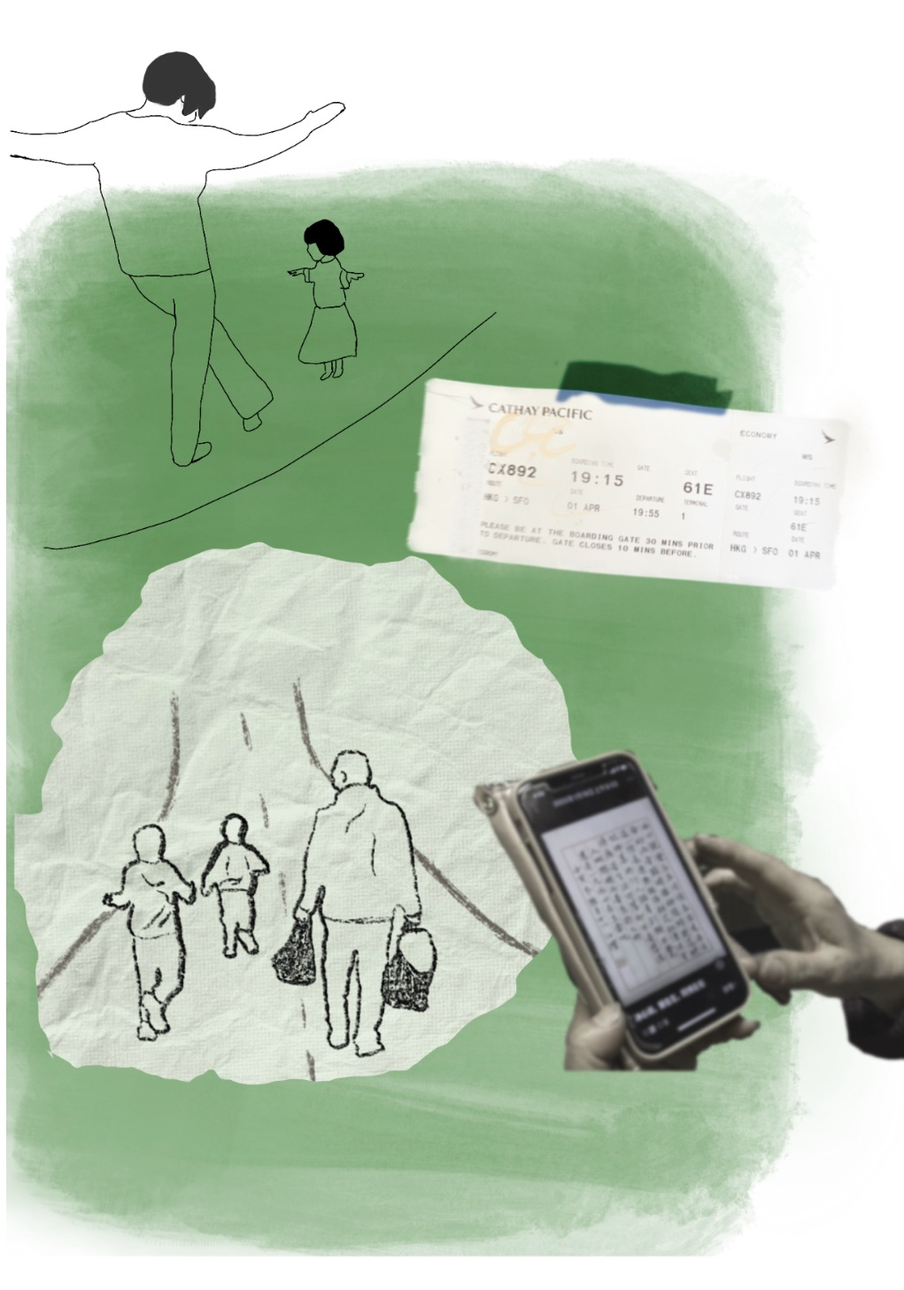
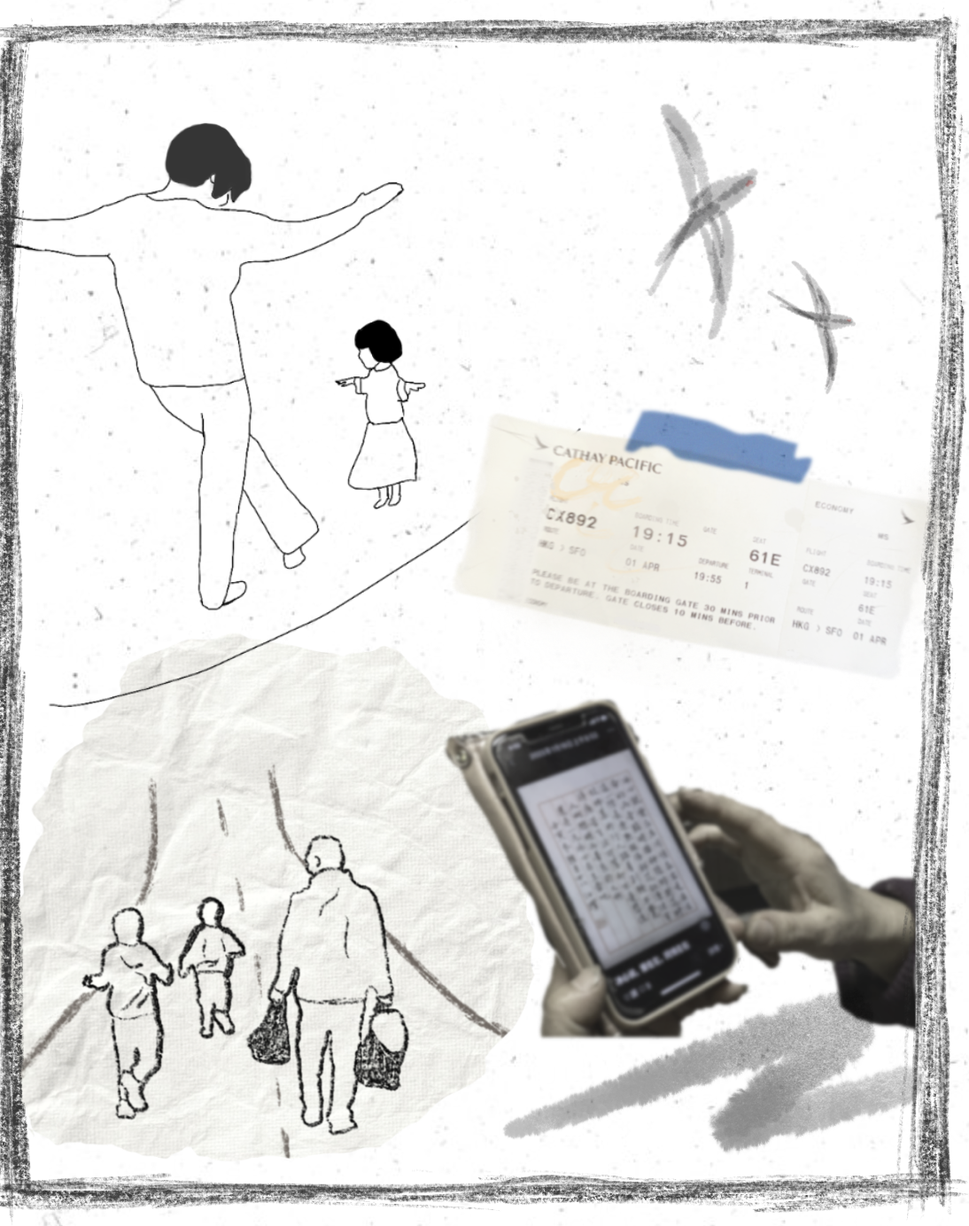
updated illustrations and layout

diff --git a/index.html b/index.html
@@ -14,6 +14,9 @@
     <link rel="preconnect" href="https://fonts.googleapis.com">
     <link rel="preconnect" href="https://fonts.gstatic.com" crossorigin>
     <link href="https://fonts.googleapis.com/css2?family=Poppins:wght@400;600&display=swap" rel="stylesheet">
+    <link rel="preconnect" href="https://fonts.googleapis.com">
+    <link rel="preconnect" href="https://fonts.gstatic.com" crossorigin>
+    <link href="https://fonts.googleapis.com/css2?family=Poppins:wght@400;600&family=Spectral:ital,wght@0,400;0,500;0,600;0,700;1,400&display=swap" rel="stylesheet">
 </head>
 
 <body>
@@ -32,22 +35,18 @@
     <header>
         <img src="./assets/opening-bg.jpg" alt="a collage of a Chinese couple being cut out to a map of California">
         <h1>CAUGHT BETWEEN<br>TWO WORLDS</br></h1>
-        <p class="italic">In Silicon Valley, Chinese elderly immigrants start to reconsider their migratory lifestyles. Although on “the land of the free,” some don’t feel as much freedom as they did in China.</p>
-        <p class="sans-serif">By Junyao Yang<br>April 27, 2023</p>
+        <p class="italic">In Silicon Valley, Chinese elderly immigrants start to reconsider their migratory lifestyle. Although on “the land of the free,” some don’t feel as much freedom as they did in China.</p>
+        <p class="sans-serif">By Junyao Yang<br>May 5, 2023</p>
     </header>
-    <p class="has-drop-cap">Bingxian Wang, 60, visited the United States for the first time in 2012. His son has come to the U.S. to study the previous year and this is the first time Bingxian visited him.</p>
-    <p>Since then, he flew to the U.S. almost every year to visit his son, bringing him walnuts and pastries from his hometown in Zhejiang. The pandemic put those regular visits to a pause.</p>
-    <p>Last Christmas, he arrived again at SFO international airport. That was his first visit since the pandemic. This time, he and his wife stayed till this March, longer than any of the visits before, giving themselves the time to test out retirement life in the U.S.</p>
+    <p class="has-drop-cap">Bingxian Wang,  61, visited the United States for the first time in 2012 with his wife. His son had come to the U.S. to study the previous year and this was the first time Bingxian visited him.</p>
+    <p>Since then, he has flown to the U.S. almost every year to visit his son, bringing him walnuts and pastries from his hometown in Zhejiang. The pandemic put those regular visits on pause.</p>
+    <p>Last Christmas, he arrived again at San Francisco International Airport. That was his first visit since the pandemic. This time, he stayed till March, longer than any of the visits before, giving themselves the time to test out retirement life in the U.S.</p>
     <figure class="imageRight">
         <img src="./assets/window.jpg" alt="an illustration of an airplane window">
     </figure>
-    <p>As more young Chinese tech workers settled down in Silicon Valley, Chinese elders are also flying into the U.S. to stay with their adult children who now have their own families in the Bay Area. They come to reunite with family, help with house chores and share the childcare responsibility for their grandchildren.</p>
-
-    <p>For years, these older Chinese grandparents have been living a “migratory lifestyle,” as described by anthropologist Nicole Newendorp at Harvard University, traveling back and forth to balance the commitments on both sides. But just like Wang, Chinese elders who are used to the frequent traveling are now starting to reconsider this “migratory lifestyle” as the pandemic recedes.</p>
+    <p>As young Chinese tech workers settle in Silicon Valley, Chinese elders are also flying into the U.S. to stay with their adult children, who now have their own families in the Bay Area. They come to reunite with family, help with house chores and share the childcare responsibilities of their grandchildren.</p>
+    <p>For years, these older Chinese grandparents have been living a “migratory lifestyle,” as described by anthropologist Nicole Newendorp at Harvard University, traveling back and forth to balance commitments on both sides. But just like the Wangs, Chinese elders are now reconsidering the migratory lifestyle as the pandemic recedes.  </p>
     <!-- video -->
-
-
-
     <section class="white-font">
         <figure class="video-container-h">    
             <video autoplay muted loop poster id="airport-h">
@@ -59,73 +58,69 @@
                 <source src="./assets/airport-bw-v2.mov">
             </video>
         </figure>
-        <p>Since 2020, China has placed severe travel restrictions, limiting the number of flights in and out of China. Direct flights between the United States and mainland China are extremely hard to come by.</p> 
-        <p>Anyone entering China from overseas faces mandatory quarantines in a hotel for 14 days and more at their own expense, a requirement that wasn’t scrapped until this January.</p>
-        <p>Thus, travel between the two countries has become a huge hassle that’s costly and complicated, especially for elders who already find international travel hard to navigate.</p>
-        <p>“That really has become a time when people have to make a choice, do I actually go and stay because I’m not going to be able to go back and forth?” said Newendorp, author of the book <a href="https://www.sup.org/books/title/?id=26937">Chinese Senior Migrants and the Globalization of Retirement</a> published in 2020.</p>
+        <p>Since 2020, China has severely restricted travel, limiting the number of flights in and out of China. Direct flights between the United States and mainland China are extremely hard to come by.</p> 
+        <p>Overseas travelers entering China had faced mandatory quarantines in a hotel for 14 days or more at their own expense, a requirement that wasn’t scrapped until this January.</p> 
+        <p>Thus, travel between the two countries has become a hassle that’s costly and complicated, especially for elders who may find international travel hard to navigate.</p>
+        <p>“That really has become a time when people have to make a choice: Do I actually go and stay because I’m not going to be able to go back and forth?” said Newendorp, who published the book "<a href="https://www.sup.org/books/title/?id=26937">Chinese Senior Migrants and the Globalization of Retirement</a>" published in 2020, in which she highlights the experiences of Cantonese senior migrants in Boston’s Chinatown, while also speaking to the broader idea of retirement and aging.</p>
         <div id="empty"></div>
     </section>
 
-    <p>Some continue flying across the Pacific while others have changed their mind and decided to consider the U.S. their new home. For the latter, leaving everything behind and migrating to a new country at a later stage in life isn’t easy, especially in a country where they don’t speak the language nor understand much about the cultural and social norms.</p>
-    <p>They face language barriers when conducting the simplest daily tasks that they can easily do in China, including driving to the grocery store, running errands at the bank or just greeting their neighbor.</p>
-    <p>Another challenge is navigating the complicated intergenerational relationship between seniors and their family members. For example, they try to achieve the balance of helping out their children but not interfering with their life, or asking them for help but not being considered a burden.</p>
-    <p>At the same time, Chinese senior immigrants face the need to build new relationships outside of the family. Many seniors already have a close-knit friends circle back in China, but now they need to build new community ties that contribute to their well-being in the United States.</p>
-    <p>Raised under the cultural belief of filial piety, most East Asians are expected to provide care and financial support to their parents when they retire. But when aging parents and their adult children live in different countries across time zones, providing that care becomes nearly impossible, especially during the pandemic.</p>
-    <p>Summer, 37, said her parents never planned much for their retirement. They never expected how much their life quality would decline when they grow older and became sick. In 2021, Summer’s mom, who has always been in good health, accidentally fell at home and had to go through surgery that eventually led to serious complications. Soon after that, her dad was also hospitalized due to heart failure.</p>
+    <p>Some elders continue flying across the Pacific, while others have decided to consider the U.S. their new home. For those choosing to stay, leaving everything behind and migrating to a new country at a later stage in life isn’t easy, especially in a country where they don’t speak the language nor understand much about the cultural and social norms.</p>
+    <p>They encounter barriers when conducting the simplest daily tasks that they can easily do in China, including driving to the grocery store, running errands at the bank or just greeting their neighbors.</p>
+    <p>Seniors also face the challenge of navigating the complicated intergenerational relationships with their family members, while also seeking to build new community ties outside of the family.</p>
+    <p>Raised under the cultural belief of filial piety (xiào-shùn 孝顺) – the idea of treating parents with respect, obedience and honor – most East Asians are expected to provide care and financial support for their parents when they retire. But when aging parents and their adult children live in different countries and across time zones, providing that care becomes nearly impossible, especially during a pandemic.</p>
+    <p>For Summer Xia, 37, her parents never planned much for their retirement. They never expected how much their life quality would decline when they grew older and became sick. In 2021, Summer’s mom, who has always been in good health, accidentally fell at home in China and had to go through surgery that eventually led to serious complications. Soon after that, her dad was also hospitalized due to heart failure.</p>
     <div class="behindText">
         <figure class="hospital">
             <img src="./assets/hospital-04.png" alt="an illustration of a woman on the phone, connected with a hospital by a thin thread" id="hospital-desktop">
-            <img src="./assets/Hospital-vertical-transparent.png" alt="an illustration of a woman on the phone and a hospital" id="hospital-mobile">
+            <img src="./assets/hospital-mobile.png" alt="an illustration of a woman on the phone and a hospital" id="hospital-mobile">
         </figure>
     </div>
-    <p>Summer, eight-month pregnant and living in San Francisco at the time, spent 8 hours of her day at the most on the phone with her mom, the doctors and nurses in a city near Shanghai. She couldn’t travel back herself because of her pregnancy, and all she could do was provide care and emotional support thousands of miles away.</p>
-    <p>Seeing her parents’ health deteriorating but unable to be by their side, it was an excruciating period of Summer’s life. “I feel like a hamster on a running wheel,” Summer said. “No matter how hard I try, I am still in the exact same place.”</p>
-    <p>She wondered, if she had moved her parents to San Francisco the year before, will everything be different?</p>
-    <p>Unlike Summer whose plan to help her parents move to the U.S. was stalled by the pandemic, many young Chinese immigrants already took the first step to move their aging parents to the U.S.</p>
-    <p>Some believe America has world-class medical experts and would be able to provide better care to their aging parents when needed, despite obstacles to finding reliable and affordable healthcare plans, especially for seniors who have pre-existing health conditions. Others simply think it helps to be living close to each other as their older parents age.</p>
-    <p>As a generation who didn’t have access to foreign language education when they were in school (if they went to school at all), most seniors don’t speak English at all.</p>
+    <p>“I was on the brink of a mental breakdown,” Xia said in Mandarin. “I’ve done everything I could as a daughter.”</p>
+    <p>Xia, eight-months pregnant and living in San Francisco at the time, spent up to eight hours of her day on the phone with her mom, the doctors and nurses in a city near Shanghai. She couldn’t travel back herself because of her pregnancy and travel restrictions. All she could do was provide care and emotional support, thousands of miles away.</p>
+    <p>Seeing her parents’ health deteriorating but unable to be by their side has been excruciating.</p> 
+    <p>“I feel like a hamster on a running wheel,” Summer said. “No matter how hard I try, I am still in the exact same place.”</p>
+    <p>She wondered, if she had moved her parents to San Francisco the year before, would everything be different?</p>
+    <p>Unlike Xia whose plan to help her parents move to the U.S. was stalled by the pandemic, many young Chinese immigrants have moved their aging parents to the U.S.</p>
+    <p>Some believe America has world-class medical experts and would be able to provide better care to their parents, despite obstacles to finding reliable and affordable healthcare plans. Others simply think it helps to be living close to each other as their parents age.</p>
+    <p>As a generation who didn’t have access to foreign language education when they were in school (if they went to school at all), most Chinese seniors don’t speak English.</p>
     <figure class="imageRight">
         <img src="./assets/back-portrait.jpg" alt="an illustration of an old man from the back">
     </figure>
-    <p>Mingshan Liu, from Ma’an Shan, a city just about 30 miles from Nanking, never had the chance to learn much English when he was in school. He grew up around the Ma’anshan Iron &amp; Steel Company, and in 1978, he attended the factory-run high school, where workers take the classroom and teach what they know to students. It was only the previous year when China resumed Gaokao after the Cultural Revolution, so there weren’t really many English teachers, Liu said.</p>
-    <p>Liu arrived in the Bay Area last December and has since stayed with his son and daughter-in-law in their Silicon Valley home, where the young couple used “fancy kitchen appliances,” Liu described. “I don’t understand the English words on those so I couldn’t really operate them well.”</p>
-    <p>Liu plans to start participating in English as a Second Language programs in CITY TK. “Right now I’m only in my 60s, I can still go to school and learn,” Liu said. “Just English for daily life is good enough.”</p>
-    <p>With their children busy with work during the workdays, Chinese seniors also face the need for a social life outside of their family members. More than 585,000 people living in the Bay Area speak Chinese at home from 2017 to 2021, according to the American Community Survey estimates, but even without language barriers, genuine connections don’t always come naturally.</p>
-    <p>Mr. Liang, an active person who loves jogging, cycling and winter swimming, talked fondly about his retirement life with a group of close friends in China. He moved to Campbell last December, where his daughter and her newborn baby live.</p>
-    <p>He misses winter swimming with his friends in Zhejiang Province, the hesitation before submerging himself in the freezing water and the exhilaration after, feeling all the blood in his body flowing to the heart. But winter swimming is not a solo sport, Mr. Liang said. His group of friends always looks out for each other.</p>
+    <p>Mingshan Liu, from Ma’an Shan, a city just about 30 miles from Nanjing on the east coast of China, never had the chance to learn much English when he was in school.</p>
+    <p>He grew up around the Ma’anshan Iron & Steel Co., and in 1978, he attended the factory-run high school, where workers teach what they know to students. It was only the previous year when China resumed Gaokao (the National College Entrance Examination) after the Cultural Revolution, when there was a dearth of formal education. So there weren’t really many English teachers, Liu said in Mandarin.</p>
+    <p>Liu, 62, arrived in the Bay Area last December and has since stayed with his son and daughter-in-law in their Silicon Valley home, where the young couple used their “fancy kitchen appliances,” as Liu called. “I don’t understand the English words on those so I couldn’t really operate them well,” he said.</p>
+    <p>Liu has started participating in English as a Second Language programs. “Right now I’m only in my 60s, I can still go to school and learn,” Liu said. “Just English for daily life is good enough.”</p>
+    <p>With their children busy with work during the week, Chinese seniors also face the need for a social life outside of their family members. More than 585,000 people living in the Bay Area speak Chinese at home, according to the American Community Survey estimates in 2021. But even without language barriers, genuine connections don’t always come naturally.</p>
+    <p>Mr. Liang, an active person who loves jogging, cycling and winter swimming, talked fondly about his retirement life with a group of close friends in China. Liang, who preferred to go by only his last name, moved to Campbell, California, last December, where his daughter and her newborn live.</p>
+    <p>He misses winter swimming with his friends in Zhejiang Province, the hesitation before submerging himself in the freezing water and the exhilaration after, feeling all the blood in his body flowing to the heart. Winter swimming is not a solo sport, Liang said. His group of friends always looks out for each other.</p>
     <p>“When swimming in the lake in the winter, someone has to break the ice for you,” he explained. “Otherwise the ice scratches your skin and there will be scars all over.”</p>
-    <p>Now, his day starts around 8 a.m. at his daughter’s house. He spent the morning looking after his grandchild and in the afternoon he sometimes walk a couple of miles to the nearby park for a jog.</p>
+    <p>Now, his day starts around 8 a.m. at his daughter’s house. He spends the morning looking after his grandchild, and in the afternoon he sometimes walks a couple of miles to the nearby park for a jog.</p>
     <p>“The friends back home, we all grew up in the 1970s after the Cultural Revolution. We have a common language,” Liang said. “Here, you throw away all your past and start all over.”</p>
-    <p>Many new Chinese elder immigrants, unlike those coming to the Bay Area earlier to join their relatives near the Chinatowns in San Francisco and Oakland, live with their adult children in suburban homes near Silicon Valley. Although these are more middle-class neighborhoods, a lack of reliable public transportation makes it difficult to get around and socialize with other people.</p>
+    <p>Unlike early Chinese immigrants who had no choice but join their relatives in Chinatowns, many new Chinese elder immigrants come to the U.S. without concerns about poverty and can live with their adult children in suburban Silicon Valley homes. However, a lack of reliable public transportation in these middle-class neighborhoods makes it difficult to get around and socialize with other people.</p>
     <p>“The more you have an area like that, the less connected it is with public transportation to areas that might have centers where older people would find other individuals to spend time with, making it harder to find places to have those physical connections,” said Newendorp.</p>
     <figure id="full-width">
         <img src="./assets/photo-farm.JPG" alt="a back portrait of an old man looking at a farm， lost in his thought">
-        <figcaption class="italic">credit: TK</figcaption>
+        <figcaption class="italic sans-serif">Bingxian Wang looks out at the animal farm at Rancho San Antonio County Park in Cupertino, Calif., on Saturday, Feb. 4. (Junyao Yang)</figcaption>
     </figure>
-
-    <p>Although there are BART and buses available in some areas, taking public transit seems intimidating due to their limited language proficiency, and many feel unsafe riding public transportation alone. Most of the seniors don’t drive, so they rely on their children to drive them around. When their children are busy with work on workdays, they may choose not to travel anywhere for fear of becoming a burden for their kids.</p>
-    <p>The location where someone ends up moving and the possibility for transportation is one of the things that “may make the biggest difference in terms of crafting a sense of community,” Newendorp explained.</p>
+    <p>Although BART and buses are available in the Bay Area, taking public transit seems intimidating due to their limited language proficiency, and many feel unsafe riding public transportation alone. Many seniors don’t drive, so they rely on their children to drive them around. When their children are busy with work, they may choose not to travel anywhere for fear of becoming a burden for their kids.</p>
+    <p>Location and access to transportation are the things that “may make the biggest difference in terms of crafting a sense of community,” said Newendorp.</p>
     <p>Some of her interviewees in the Boston area spend two hours on a bus each day to travel from their suburban home to Boston’s Chinatown to spend the day doing volunteer work, hoping to grasp a sense of community.</p>
-    <p>The same happens in the Bay Area. Hong Lok Senior Centers, a senior program in Oakland’s Chinatown that serve more than 300 seniors, has seen clients traveling from Fremont to Oakland, just to spend some time at the center playing chess with friends or taking on volunteer work, according to Helen Lim, the program manager who has worked there for more than 20 years.</p>
-    <p>—</p>
-    <p>As Chinese seniors navigate their transition to American life, most stay with their grown children before they could afford to rent or buy their own place. Sharing space with multiple family members, however, brings about tensions, a collision of values, and burnout for both the elderly and the younger generations. Many elders feel a strong sense of “ji-ren-li-xia” (寄人篱下) or living under someone else’s roof, a Chinese cultural concept that carries a sense of dependence, indebtedness and obligation.</p>
+    <p>The same happens in the Bay Area. Hong Lok Senior Centers, a senior program in Oakland’s Chinatown that serves more than 300 seniors, has seen clients traveling from Fremont to Oakland, just to spend some time at the center playing chess with friends or taking on volunteer work, according to Helen Lim, the program manager who has worked there for more than 20 years.</p>
+    <p>As Chinese seniors navigate their transition to American life, most stay with their grown children before they can afford to rent or buy their own place. Sharing space with multiple family members, however, brings about tensions, a collision of values, and burnout for both the elderly and the younger generations. Many elders feel a strong sense of “jì-rén-lí-xià” (寄人篱下) or living under someone else’s roof, a Chinese cultural concept that carries a sense of dependence, indebtedness and obligation.</p>
     <figure class="imageLeft">
         <img src="./assets/family.png" alt="a collage of senior dancing with granddaugher, boarding pass, seniors walking home with two grandkids, and senior holding a phone">
     </figure>
-    <p>Mrs. Ma, a 60-year-old woman from Beijing, has been living with her daughter and son-in-law since May 2022. Her room is right next to the bathroom, with a thin wall in between. She likes to go to bed around 10 p.m., but her son-in-law usually takes his shower at the same time. Many times she would lie in bed, she said, listening to the water splashing again the bathroom floor, and unable to sleep.</p>
+    <p>Mrs. Ma, a 60-year-old woman from Beijing, has been living with her daughter and son-in-law since May 2022. She refused to disclose her first name due to privacy concerns.</p>
+    <p>Her room is right next to the bathroom, with a thin wall in between. She likes to go to bed around 10 p.m., but her son-in-law usually takes his shower at the same time. Many times she would lie in bed, she said, listening to the water splashing against the bathroom floor, and unable to sleep.</p>
     <p>“I don’t have a home here,” Ma said. “I can’t treat someone else’s home as my own home.”</p>
-
-
-    <p>Chinese elder immigrants often contribute to their grandchildren’s upbringing by providing labor and support, but once their grandchildren grow older and go to school, they may suddenly find themselves without a sense of purpose.</p>
+    <p>Like many, she consoles herself with the knowledge that she is needed to take care of her grandchildren. During her time in the U.S., she tried to take on a lot of responsibilities to help her daughter with childcare. But that duty is temporary.</p>
     <p>“If they end up coming to help raise the grandchildren, once the grandchildren are in school, they are lost, they no longer feel needed and they don’t have a place to go,” said Heying Zhan, associate professor at the Department of Sociology, Georgia State University who published <a href="https://www.tandfonline.com/doi/full/10.1080/1369183X.2019.1673706">a study on the process of settlement of Chinese elder immigrants</a> in 2019.</p>
-    <p>When speaking with Chinese senior migrants about their lives in the U.S. and back home, many bring up the idea of freedom (“zi-you” 自由). However, for different people, freedom could mean very different things.</p>
+    <p>When speaking with Chinese senior migrants about their lives in the U.S. and back home, many bring up the idea of freedom (“zì-yóu” 自由). However, for different people, freedom could mean very different things.</p>
     <p>While younger Chinese immigrants may feel life in the U.S. gives them the freedom to escape from the stricter political control in China, older Chinese people are more likely to see freedom as independence from others, being mobile and doing things on their own. They don’t necessarily feel as much freedom in the U.S. as they do in China, where they can go on road trips with friends, take classes in senior universities and most importantly, take care of themselves without the help from their adult children.</p>
     <p>“People had a spectrum of ideas around what they wanted out of being here, why it was meaningful for them to be here,” said Newendorp. “But this idea of independence, I think, is one that was important.”</p>
-    <p>This April, Ma traveled back home to Beijing. During her time in the U.S., she tried to take on a lot of the responsibilities to help her daughter with childcare, so much so that she felt burned out from taking care of everything. But after nearly a year of staying in the U.S., she still finds retirement life back home much more liberating.</p>
+    <p>For Ma, her time in the U.S. left her burned out from taking care of everything at home. In April, Ma moved back to Beijing indefinitely. After nearly a year of staying in the U.S., she still finds retirement life back home much more liberating.</p>
     <p>“Of course I have more freedom in China,” Ma said. “In the U.S. I’m mostly living for them. But in China, I’m only living for myself.” </p>
 </article>    
 </main>
-    <footer>
-        TK
-    </footer>
 </body>

diff --git a/styles/main.css b/styles/main.css
@@ -23,7 +23,7 @@ html,body {
 h1 {
     font-size: 5rem;
     font-weight: 700;
-    font-family: 'Poppins', 'sans serif';
+    font-family: 'Playfair Display', 'times new roman', serif;
     margin: 0.5rem 0;
   }
   
@@ -101,6 +101,10 @@ article p {
     padding-bottom: 1rem;
 }
 
+article p:last-of-type {
+    padding-bottom: 5rem;
+}
+
 article header {
     width: 80%;
     margin: 0 auto;
@@ -161,7 +165,7 @@ p.has-drop-cap::first-letter {
 }
 
 .imageLeft {
-    margin: 0;
+    margin: 0 auto;
     padding: 0;
 }
 
@@ -171,7 +175,7 @@ p.has-drop-cap::first-letter {
     float: left;
     padding-right: 2rem;
     padding-left: 0;
-    margin-left: 0;
+    margin: 0 auto;
 }
 
 /* video */
@@ -238,7 +242,10 @@ video {
 }
 
 figcaption {
-    text-align: right;
+    text-align: left;
+    font-size: 0.8rem;
+    padding-left: 0.5rem;
+    color: darkgray;
 }
 
 .behindText {
@@ -306,14 +313,14 @@ figcaption {
 
     figure.imageLeft {
         margin: 0 auto;
-        width: 100%;
+        width: 90%;
     }
 
     .imageLeft img {
         width: 90%;
         margin: 0 auto;
         float: none;
-        padding: 1rem 0;
+        padding: 1rem 0 1rem 0.5rem;
     }
 
     .behindText {
@@ -365,7 +372,7 @@ figcaption {
 
 }
 
-@media screen and (min-width: 600px) {
+@media (min-width: 600px) and (max-width: 767px) {
     article p {
         width: 90%;
     }
@@ -410,7 +417,7 @@ figcaption {
 
     figure.imageLeft {
         margin: 0 auto;
-        width: 100%;
+        width: 90%;
     }
 
     .imageLeft img {
@@ -469,7 +476,7 @@ figcaption {
 }
 
 
-@media screen and (min-width: 768px) {
+@media (min-width: 768px) and (max-width: 991px) {
     article p {
         width: 90%;
     }
@@ -514,14 +521,17 @@ figcaption {
 
     figure.imageLeft {
         margin: 0 auto;
-        width: 100%;
+        width: 90%;
+        float: none;
+        display: block;
     }
 
     .imageLeft img {
-        width: 90%;
-        margin: 0 auto;
+        width: 60%;
+        margin-left: auto;
+        margin-right: auto;
         float: none;
-        padding: 1rem 0;
+        display: block;
     }
 
     .behindText {
@@ -569,7 +579,7 @@ figcaption {
 
 }
 
-@media screen and (min-width: 992px) {
+@media (min-width: 992px) and (max-width:1199) {
     article p {
         width: 90%;
     }
@@ -622,7 +632,7 @@ figcaption {
     .imageLeft img {
         width: 35%;
         float: left;
-        padding: 1rem 1rem 1rem 0;
+        padding: 1rem 3rem 1rem 0;
         margin: 0;
     }
 
@@ -735,7 +745,7 @@ figcaption {
     .imageLeft img {
         width: 35%;
         float: left;
-        padding: 1rem 1rem 1rem 0;
+        padding: 1rem 3rem 1rem 0;
         margin: 0;
     }
 
